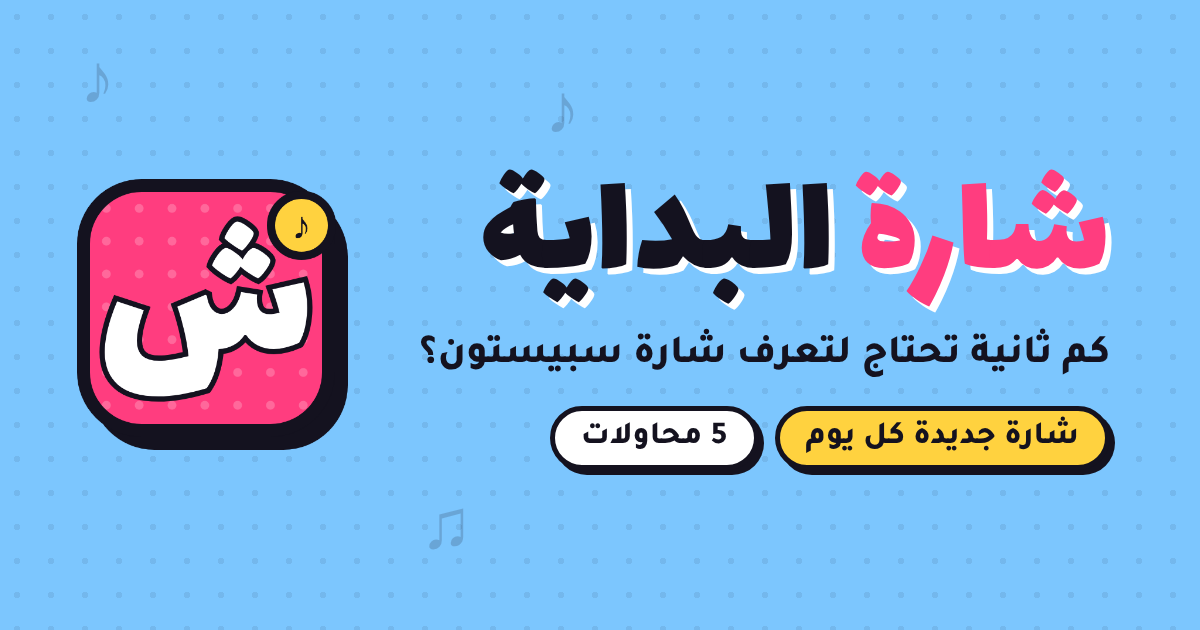
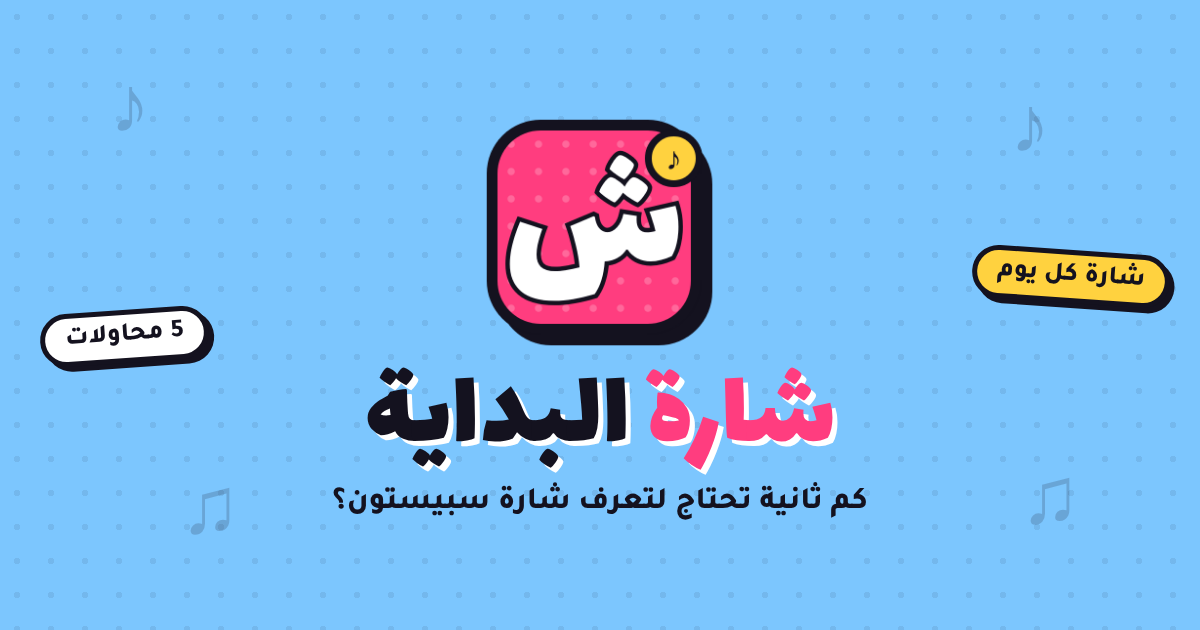
Add files via upload

diff --git a/index.html b/index.html
@@ -20,15 +20,15 @@
 <meta property="og:site_name" content="شارة البداية">
 <meta property="og:locale" content="ar_AR">
 <meta property="og:title" content="شارة البداية — كم ثانية تحتاج لتعرف شارة سبيستون؟">
-<meta property="og:description" content="اسمع أول ثانية من الشارة وخمّن المسلسل. شارة جديدة كل يوم!">
+<meta property="og:description" content="اسمع أول ثانية من الشارة وخمّن المسلسل. شارة جديدة كل يوم.">
 <meta property="og:url" content="https://islam-salem.github.io/awelnaghma/">
-<meta property="og:image" content="https://islam-salem.github.io/awelnaghma/og-image.png">
+<meta property="og:image" content="https://islam-salem.github.io/awelnaghma/og-image.png?v=2">
 <meta property="og:image:width" content="1200">
 <meta property="og:image:height" content="630">
 <meta name="twitter:card" content="summary_large_image">
 <meta name="twitter:title" content="شارة البداية — كم ثانية تحتاج لتعرف شارة سبيستون؟">
-<meta name="twitter:description" content="اسمع أول ثانية من الشارة وخمّن المسلسل. شارة جديدة كل يوم!">
-<meta name="twitter:image" content="https://islam-salem.github.io/awelnaghma/og-image.png">
+<meta name="twitter:description" content="اسمع أول ثانية من الشارة وخمّن المسلسل. شارة جديدة كل يوم.">
+<meta name="twitter:image" content="https://islam-salem.github.io/awelnaghma/og-image.png?v=2">
 
 <link rel="preconnect" href="https://fonts.googleapis.com">
 <link href="https://fonts.googleapis.com/css2?family=Lalezar&family=Tajawal:wght@500;700;800&display=swap" rel="stylesheet">
